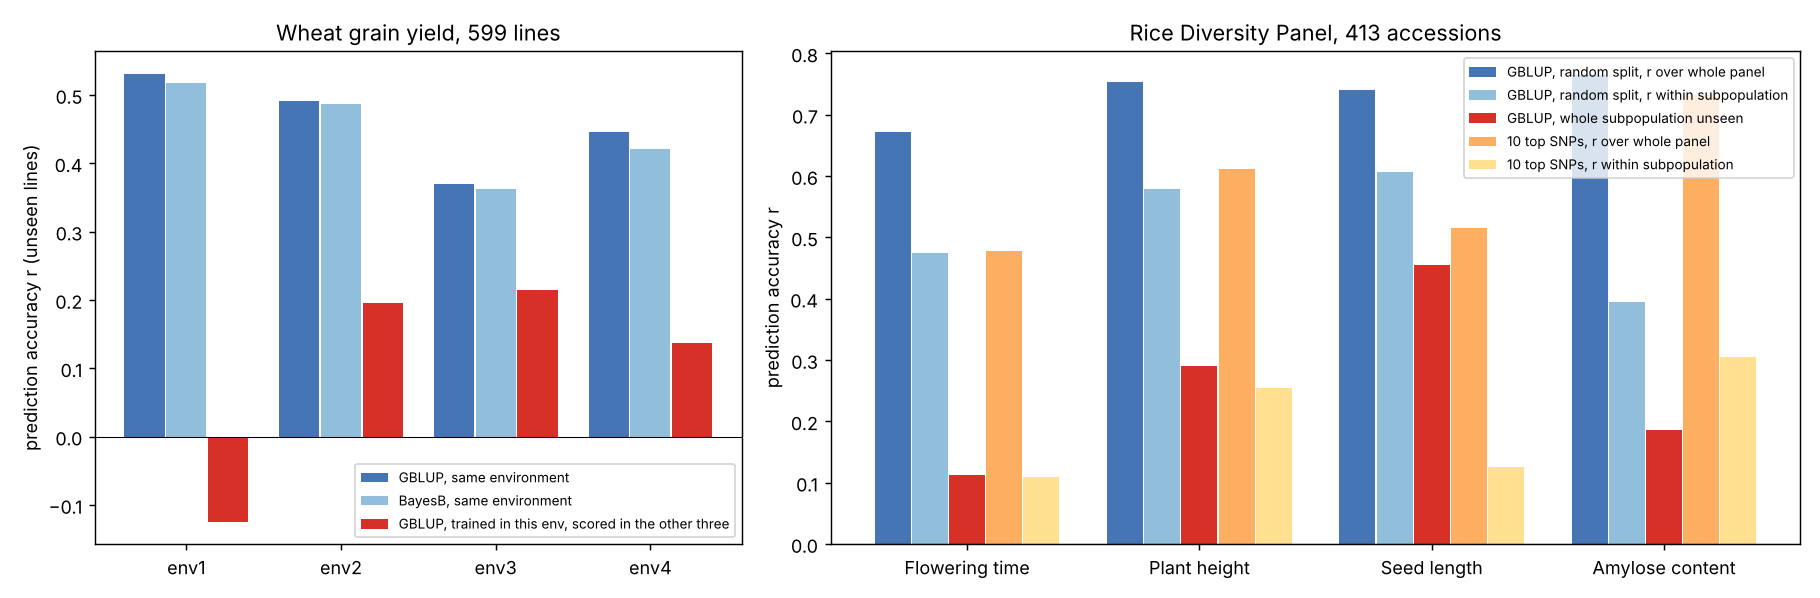
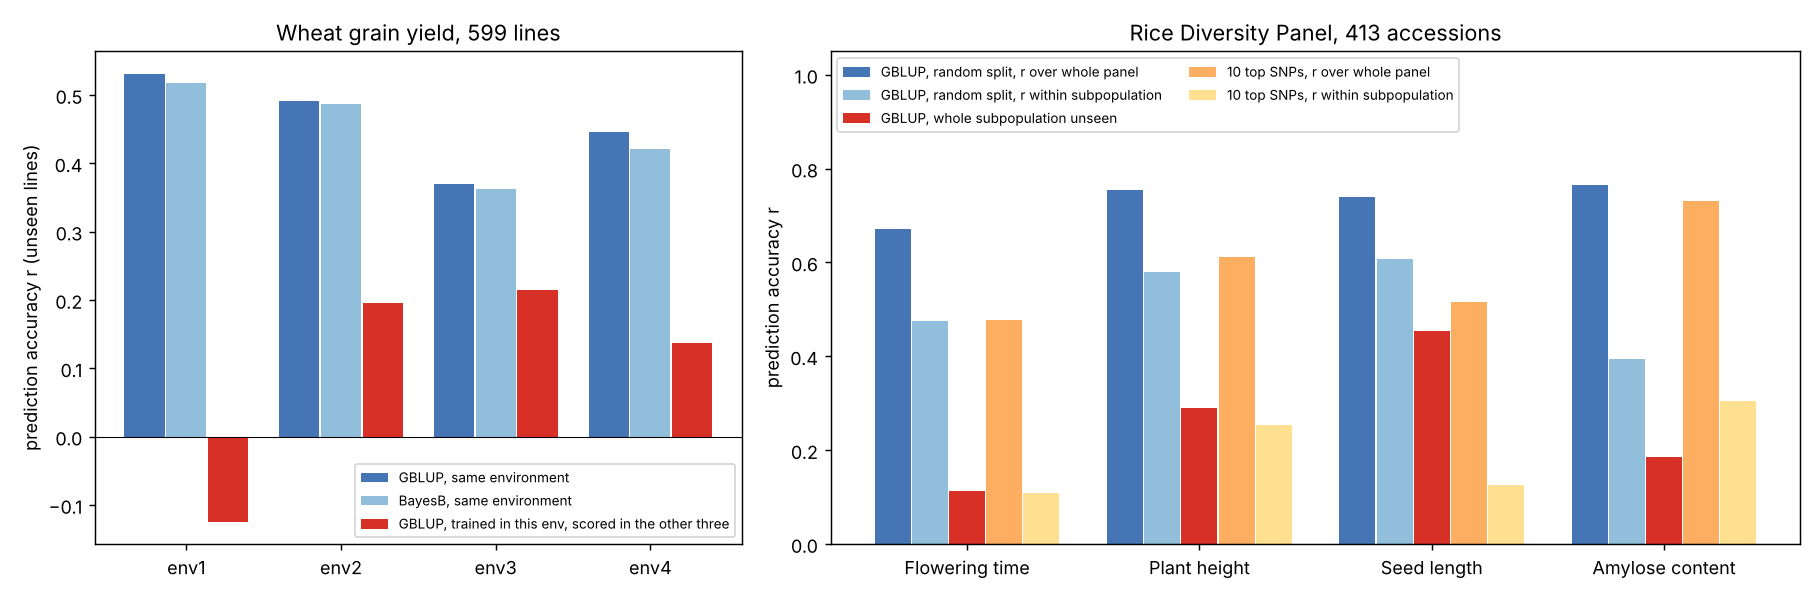
Fix legend overlap in genomic selection figure
Claude-Session: https://claude.ai/code/session_01PFYaAFy9q2wuLBG6cTnPCN

diff --git a/qtl_breeding_benchmark/05_summarize.py b/qtl_breeding_benchmark/05_summarize.py
@@ -49,7 +49,7 @@ sc = [("unseen lines, random split (whole panel r)", "GBLUP, random split, r ove
       ("10 top markers chosen in training fold (r within subpopulation)", "10 top SNPs, r within subpopulation", "#fee090")]
 for j, (s, lab, c) in enumerate(sc):
     ax[1].bar(k + (j - 2) * .16, [r[(r.trait == x) & (r.scenario == s)].r.mean() for x in tr], .155, label=lab, color=c)
-ax[1].set_xticks(k, [x.replace(" at Arkansas", "") for x in tr]); ax[1].legend(fontsize=7.5); ax[1].axhline(0, c="k", lw=.6)
+ax[1].set_xticks(k, [x.replace(" at Arkansas", "") for x in tr]); ax[1].legend(fontsize=7.5, ncol=2, loc="upper left"); ax[1].set_ylim(0, 1.05); ax[1].axhline(0, c="k", lw=.6)
 ax[1].set(ylabel="prediction accuracy r", title="Rice Diversity Panel, 413 accessions")
 fig.tight_layout(); fig.savefig("results/fig3_genomic_selection.png", dpi=130)
 json.dump(S, open("results/summary.json", "w"), indent=1)
